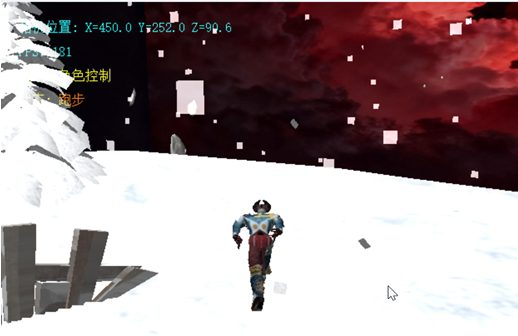
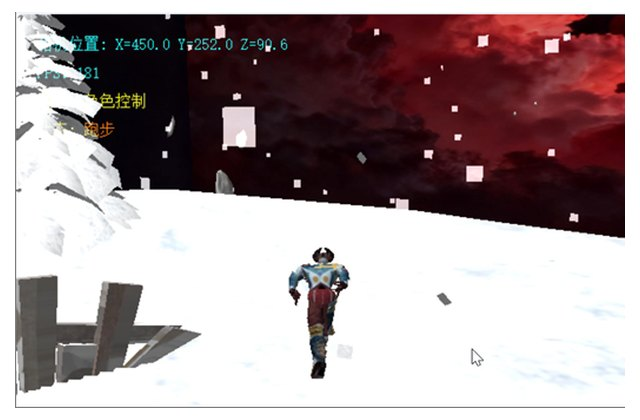
公募策略：新增与沪深300的收益对比图与夏普比率说明；统一3D场景截图尺寸

diff --git a/projects/gongmu.html b/projects/gongmu.html
@@ -210,6 +210,17 @@ class StrategyWithBullBearFilter:
     <img src="../assets/img/gongmu_zjcc_bull_bear_signals.jpg" alt="Bull/bear signals">
     <figcaption>Figure 2: Shareholder increase/decrease ratio regime signals vs. index</figcaption>
   </figure>
+
+  <h3>Comparison with the CSI 300 over the same period</h3>
+  <figure>
+    <img src="../assets/img/gongmu_vs_hs300.jpg" alt="Strategy vs CSI 300">
+    <figcaption>Figure 3: Cumulative NAV of the filtered strategy vs. the CSI 300 Index (both normalized to 1.0 on 2010-01-04). The strategy reaches 5.16× while the CSI 300 ends at 1.31×.</figcaption>
+  </figure>
+
+  <h3>Why is the Sharpe ratio relatively low?</h3>
+  <div class="note">
+    The headline Sharpe ratio (≈0.30) looks modest next to the 416% cumulative return — and the reason is structural, not a defect: <strong>in bear markets the strategy deliberately holds a single asset class — 2%-annual government bonds</strong> — for years at a time (e.g. most of 2011–2014 and 2016–2018, visible as the flat segments in Figure 3). During those stretches returns are compressed to the bond yield while the index keeps fluctuating, which drags down the return-to-volatility ratio over the full sample. This is the deliberate price of drawdown control: the bond phase is exactly what keeps the max drawdown at -21.9%~-30.0% and caps bear-year losses at single digits, trading Sharpe ratio for capital preservation through cycles.
+  </div>
 </section>
 
 <section class="block">
